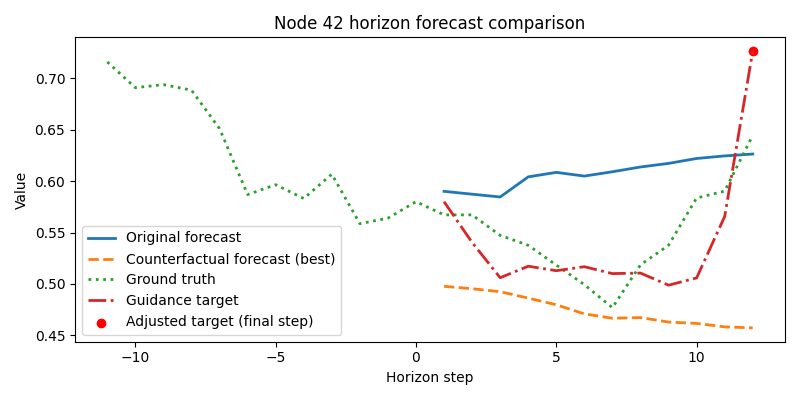
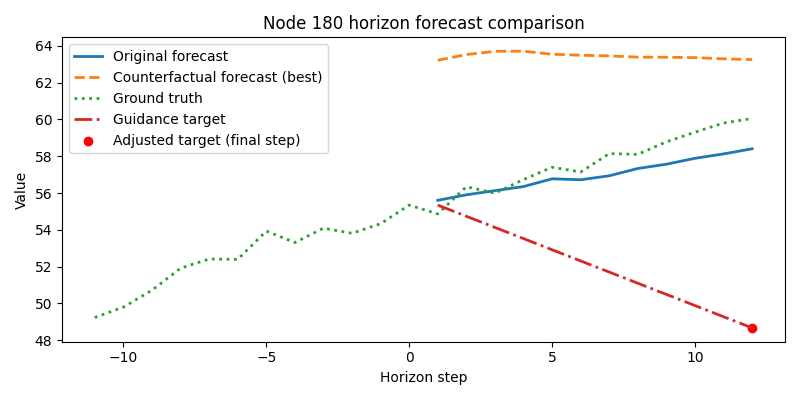
Update dataset options, enhance training command logging, and improve counterfactual plotting in main.py
- Expanded dataset choices in command-line arguments to include METRLA_SUB variants.
- Modified training command file generation to include the command's directory structure.
- Added functions for inverse scaling of target tensors to improve counterfactual plotting accuracy.
- Updated plotting logic to utilize unscaled data for better visualization of predictions.

diff --git a/main.py b/main.py
@@ -36,6 +36,7 @@ from counterfactual.subgraph import (
     save_subgraphs,
 )
 from preprocessing.data_reader import TemporalDatasetBundle, load_dataset
+from preprocessing.graphwavenet_utils import StandardScaler
 from train import build_dataloaders, train_pipeline, test_pipeline
 
 
@@ -45,7 +46,7 @@ def add_forecaster_subcommand(subparsers: argparse._SubParsersAction[argparse.Ar
     parser.add_argument(
         "--dataset",
         type=str,
-        choices=["METRLA", "PEMSBAY", "METRLA_15", "METRLA_30"],
+        choices=["METRLA", "PEMSBAY", "METRLA_15", "METRLA_30", "METRLA_SUB", "METRLA_SUB_15", "METRLA_SUB_30"],
         default="METRLA",
     )
     parser.add_argument("--data_root", type=str, default=None)
@@ -89,7 +90,7 @@ def add_diffusion_subcommand(subparsers: argparse._SubParsersAction[argparse.Arg
     parser.add_argument(
         "--dataset",
         type=str,
-        choices=["METRLA", "PEMSBAY", "METRLA_15", "METRLA_30"],
+        choices=["METRLA", "PEMSBAY", "METRLA_15", "METRLA_30", "METRLA_SUB", "METRLA_SUB_15", "METRLA_SUB_30"],
         default="METRLA",
     )
     parser.add_argument("--data_root", type=str, default=None)
@@ -130,7 +131,7 @@ def add_subgraph_subcommand(subparsers: argparse._SubParsersAction[argparse.Argu
     parser.add_argument(
         "--dataset",
         type=str,
-        choices=["METRLA", "PEMSBAY", "METRLA_15", "METRLA_30"],
+        choices=["METRLA", "PEMSBAY", "METRLA_15", "METRLA_30", "METRLA_SUB", "METRLA_SUB_15", "METRLA_SUB_30"],
         default="METRLA",
     )
     parser.add_argument("--data_root", type=str, default=None, help="Root directory containing dataset folders.")
@@ -385,9 +386,11 @@ def _format_training_command() -> str:
     return f"{python_exec} {arg_string}".strip()
 
 
-def write_training_command_file(directory: Path) -> None:
-    command_path = directory / "trainingCommand.txt"
+def write_training_command_file(directory: Path, filename: str = "trainingCommand.txt") -> Path:
+    directory.mkdir(parents=True, exist_ok=True)
+    command_path = directory / filename
     command_path.write_text(_format_training_command() + "\n")
+    return command_path
 
 
 def save_diffusion_checkpoint(
@@ -476,7 +479,8 @@ def run_diffusion_command(args: argparse.Namespace) -> None:
     )
 
     checkpoint_path = resolve_diffusion_checkpoint_path(args)
-    write_training_command_file(checkpoint_path.parent)
+    command_dir = Path(__file__).resolve().parent / "training_commands" / checkpoint_path.parent.name
+    write_training_command_file(command_dir)
     metrics_csv = checkpoint_path.parent / "metrics.csv"
     best_val = float("inf")
     start_epoch = 1
@@ -595,6 +599,22 @@ def adjust_target(
     if offset != 0.0:
         adjusted[indices, -1] = adjusted[indices, -1] + offset
     return adjusted
+
+
+def inverse_target_scale(tensor: torch.Tensor, scaler: StandardScaler) -> torch.Tensor:
+    """Inverse scale a (nodes, horizon) tensor for the target channel."""
+
+    arr = tensor.detach().cpu().numpy()
+    arr = scaler.inverse_transform(arr)
+    return torch.from_numpy(arr).to(tensor.dtype)
+
+
+def inverse_target_feature(tensor: torch.Tensor, target_channel: int, scaler: StandardScaler) -> torch.Tensor:
+    """Inverse scale only the target channel of a (T, N, F) tensor."""
+
+    arr = tensor.detach().cpu().numpy()
+    arr[..., target_channel] = scaler.inverse_transform(arr[..., target_channel])
+    return torch.from_numpy(arr).to(tensor.dtype)
 
 
 def _temporal_smooth_1d(x: torch.Tensor) -> torch.Tensor:
@@ -1310,6 +1330,12 @@ def run_counterfactual_command(args: argparse.Namespace) -> None:
     best_idx = int(torch.argmin(mse_cpu).item())
     best_cf_prediction = cf_preds_cpu[best_idx]
     best_cf_window = samples[best_idx].detach().cpu().float()
+    # Prepare unscaled versions for plotting.
+    baseline_plot = inverse_target_scale(baseline_forecast, bundle.scaler)
+    best_cf_prediction_plot = inverse_target_scale(best_cf_prediction, bundle.scaler)
+    adjusted_target_plot = inverse_target_scale(adjusted_target, bundle.scaler)
+    default_target_plot = inverse_target_scale(default_target, bundle.scaler)
+    guidance_target_plot = inverse_target_scale(guidance_target, bundle.scaler) if guidance_target is not None else None
 
     plot_node = args.plot_node if args.plot_node is not None else (args.target_adjust_node if args.target_adjust_node >= 0 else 0)
     plot_path = Path(args.plot_path) if args.plot_path else Path(args.output_path).with_name(Path(args.output_path).stem + "_plot.png")
@@ -1317,25 +1343,31 @@ def run_counterfactual_command(args: argparse.Namespace) -> None:
     lag_target = None
     if 0 <= target_ch < past_window.shape[-1]:
         lag_target = past_window[:, :, target_ch].permute(1, 0).contiguous()
+    lag_target_plot = inverse_target_scale(lag_target, bundle.scaler) if lag_target is not None else None
     if adjusted_target.shape[0] > 0 and adjusted_target.shape[1] > 0:
         save_prediction_plot(
             plot_path,
             plot_node,
-            baseline_forecast,
-            best_cf_prediction,
-            adjusted_target,
-            default_target,
-            guidance_target,
-            lag_target=lag_target,
+            baseline_plot,
+            best_cf_prediction_plot,
+            adjusted_target_plot,
+            default_target_plot,
+            guidance_target_plot,
+            lag_target=lag_target_plot,
             plot_lag_steps=args.plot_lag_steps,
         )
 
     top_window_plot_path = Path(args.plot_top_cf_window_path) if args.plot_top_cf_window_path else None
     if top_window_plot_path is not None:
+        past_plot = past_window.detach().cpu().float()
+        best_cf_window_plot = best_cf_window
+        if args.plot_top_cf_window_feature == target_ch:
+            past_plot = inverse_target_feature(past_plot, target_ch, bundle.scaler)
+            best_cf_window_plot = inverse_target_feature(best_cf_window_plot, target_ch, bundle.scaler)
         save_top_cf_window_plot(
             top_window_plot_path,
-            past_window.detach().cpu().float(),
-            best_cf_window,
+            past_plot,
+            best_cf_window_plot,
             top_k=args.plot_top_cf_window_k,
             feature=args.plot_top_cf_window_feature,
         )

diff --git a/train.py b/train.py
@@ -5,6 +5,8 @@ import csv
 from dataclasses import asdict
 import math
 import os
+import shlex
+import sys
 from datetime import datetime
 from pathlib import Path
 from typing import Dict, List, Optional, Tuple
@@ -29,7 +31,7 @@ def parse_args() -> argparse.Namespace:
     parser.add_argument(
         "--dataset",
         type=str,
-        choices=["METRLA", "PEMSBAY", "METRLA_15", "METRLA_30"],
+        choices=["METRLA", "PEMSBAY", "METRLA_15", "METRLA_30", "METRLA_SUB", "METRLA_SUB_15", "METRLA_SUB_30"],
         default="METRLA",
     )
     parser.add_argument("--data_root", type=str, default=None, help="Path to dataset root directory.")
@@ -359,6 +361,22 @@ def resolve_checkpoint_destination(args: argparse.Namespace) -> Tuple[Path, Path
     return run_dir, run_dir / "best.pt"
 
 
+def _format_training_command() -> str:
+    python_exec = sys.executable or "python"
+    try:
+        arg_string = shlex.join(sys.argv)
+    except AttributeError:
+        arg_string = " ".join(shlex.quote(arg) for arg in sys.argv)
+    return f"{python_exec} {arg_string}".strip()
+
+
+def write_training_command_file(directory: Path, filename: str = "trainingCommand.txt") -> Path:
+    directory.mkdir(parents=True, exist_ok=True)
+    command_path = directory / filename
+    command_path.write_text(_format_training_command() + "\n")
+    return command_path
+
+
 def save_checkpoint(
     path: Path,
     args: argparse.Namespace,
@@ -390,6 +408,8 @@ def train_pipeline(args: argparse.Namespace) -> None:
     args.resolved_run_dir = str(run_dir)
     args.resolved_checkpoint_path = str(checkpoint_path)
     args.metrics_csv_path = str(run_dir / "metrics.csv")
+    command_dir = Path(__file__).resolve().parent / "training_commands" / run_dir.name
+    write_training_command_file(command_dir)
     if gpu_ids and len(gpu_ids) > 1:
         world_size = len(gpu_ids)
         mp.spawn(train_worker, args=(args, gpu_ids, True), nprocs=world_size, join=True)

diff --git a/preprocessing/data_reader.py b/preprocessing/data_reader.py
@@ -47,6 +47,9 @@ class DataReader:
         "METRLA": {"values": "node_values.npy", "adjacency": "adj_mat.npy"},
         "METRLA_15": {"values": "node_values.npy", "adjacency": "adj_mat.npy"},
         "METRLA_30": {"values": "node_values.npy", "adjacency": "adj_mat.npy"},
+        "METRLA_SUB": {"values": "node_values.npy", "adjacency": "adj_mat.npy"},
+        "METRLA_SUB_15": {"values": "node_values.npy", "adjacency": "adj_mat.npy"},
+        "METRLA_SUB_30": {"values": "node_values.npy", "adjacency": "adj_mat.npy"},
         "PEMSBAY": {"values": "pems_node_values.npy", "adjacency": "pems_adj_mat.npy"},
     }
 

diff --git a/counterfactual/subgraph.py b/counterfactual/subgraph.py
@@ -11,10 +11,10 @@ import torch
 
 @dataclass(frozen=True)
 class RandomWalkConfig:
-    num_walks: int = 128
-    walk_length: int = 8
+    num_walks: int = 20000
+    walk_length: int = 40
     restart_prob: float = 0.15
-    top_k: int = 16
+    top_k: int = 3
     seed: int | None = None
 
 
